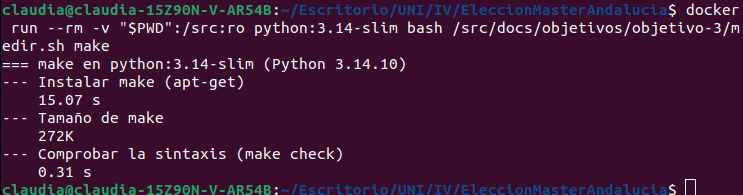
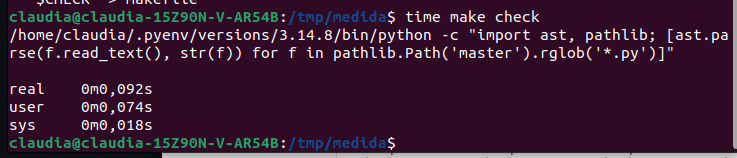
refs #23 Medir Make en local
Medida sin Docker, con el Python 3.14.8 instalado, y con los criterios nuevos. Make ya estaba instalado en el sistema.

Changed region(s): [[0.0, 0.0, 1.0, 1.0]]

diff --git a/docs/objetivos/objetivo-3/automatizacion.md b/docs/objetivos/objetivo-3/automatizacion.md
@@ -29,8 +29,9 @@ Hacía falta una forma común de instalar las dependencias y ejecutar las tareas
 
 ## Gestores de tareas
 
-- Make: no depende de Python, pero no viene en la imagen y se instala con el sistema. Se
-  instala en 15,07 s y ocupa 272 KB; comprueba la sintaxis en 0,31 s
+- Make: no gestiona dependencias, así que hacen falta dos herramientas en total y el
+  lockfile depende del gestor de dependencias que se use con él. Ya estaba instalado en el
+  sistema, así que no hay tiempo de instalación, y ejecuta la tarea check en 0,09 s
   ([captura](capturas/make.png)).
 - just: es un programa independiente. Se instala en 11,60 s y ocupa 20 MB, contando el
   entorno en el que se instala; comprueba la sintaxis en 0,12 s
